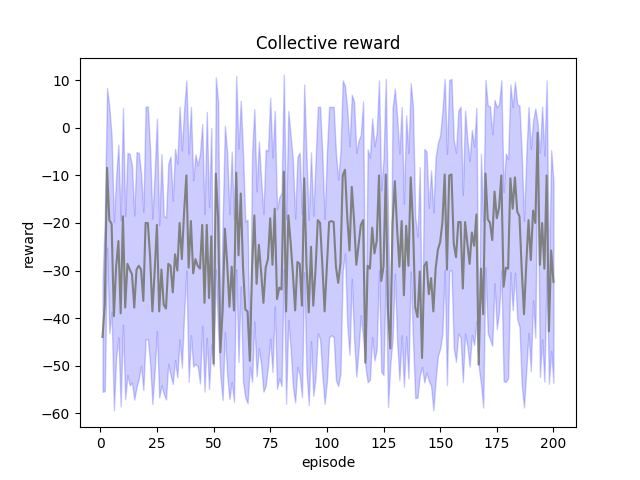
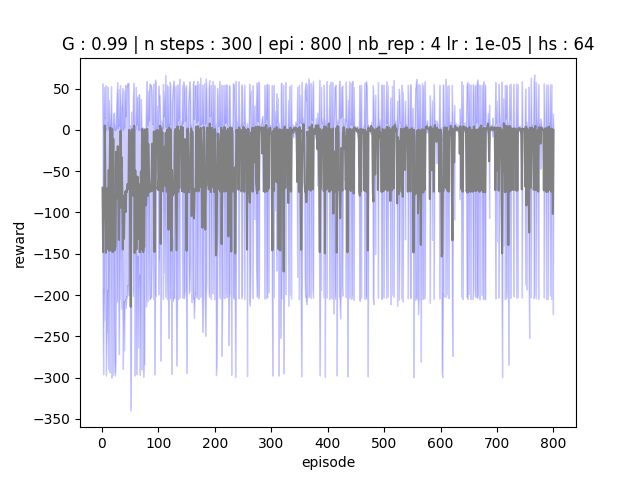
adding the params to the title of the graph

diff --git a/PytorchHarvest/tuning.py b/PytorchHarvest/tuning.py
@@ -5,7 +5,7 @@ from a2cSingleAgentHarvest import a2c
 from social_dilemma.environment.harvest import HarvestEnv
 from Hyperparams import *
 
-def plot_curve(scores, figure_file):
+def plot_curve(scores, figure_file, title):
     nb_episodes = np.shape(scores)[1]
     x_plot = [i + 1 for i in range(nb_episodes)]
     y_plot = np.array(scores)
@@ -16,7 +16,7 @@ def plot_curve(scores, figure_file):
     plt.fill_between(x_plot, y_mean - y_std, y_mean + y_std,
                      color='blue', alpha=0.2)
 
-    plt.title('Collective reward')
+    plt.title(title)
     plt.xlabel("episode")
     plt.ylabel("reward")
     plt.savefig(figure_file)
@@ -25,12 +25,12 @@ if __name__ == "__main__":
 
     # Constants
     GAMMA = 0.99
-    num_steps = 50
-    max_episodes = 200 #400
+    num_steps = 300
+    max_episodes = 800 #400
     render_env = False
     hidden_size, learning_rate = get_6_batch()
 
-    repetition = 5
+    repetition = 4
 
     rewards_repetitions = []
     for i in range(0, repetition):
@@ -42,7 +42,8 @@ if __name__ == "__main__":
         rewards_repetitions.append(all_rewards)
         print("repetition ", i, " sum_rewards: ", sum_rewards)
 
-    plot_curve(rewards_repetitions, "tmp/plots/test")
+    title = f"G : {GAMMA} | n steps : {num_steps} | epi : {max_episodes} | nb_rep : {repetition} lr : {learning_rate} | hs : {hidden_size}"
+    plot_curve(rewards_repetitions, "tmp/plots/test", title)
 
     print("mean sum all rewards: ", np.mean(rewards_repetitions))
 

diff --git a/PytorchHarvest/a2cSingleAgentHarvest.py b/PytorchHarvest/a2cSingleAgentHarvest.py
@@ -104,7 +104,7 @@ def a2c(env, GAMMA=0.99, num_steps=300, max_episodes=30, render_env = False, lea
     # Plot results
     smoothed_rewards = get_smoothed_rewards(all_rewards)
     #plot_rewards_evolution(all_rewards, smoothed_rewards)
-    plot_rewards_evolution(all_rewards, smoothed_rewards, GAMMA, num_steps, max_episodes, learning_rate, hidden_size)
+    #plot_rewards_evolution(all_rewards, smoothed_rewards, GAMMA, num_steps, max_episodes, learning_rate, hidden_size)
     #plot_episode_length_evolution(all_lengths, average_lengths)
 
     return history_rewards, sum_rewards, all_rewards

diff --git a/PytorchHarvest/a2c.py b/PytorchHarvest/a2c.py
@@ -84,8 +84,8 @@ def a2c(env):
     # Plot results
     smoothed_rewards = get_smoothed_rewards(all_rewards)
 
-    plot_rewards_evolution(all_rewards, smoothed_rewards)
-    plot_episode_length_evolution(all_lengths, average_lengths)
+    #plot_rewards_evolution(all_rewards, smoothed_rewards)
+    #plot_episode_length_evolution(all_lengths, average_lengths)
     print(smoothed_rewards)
 
 
